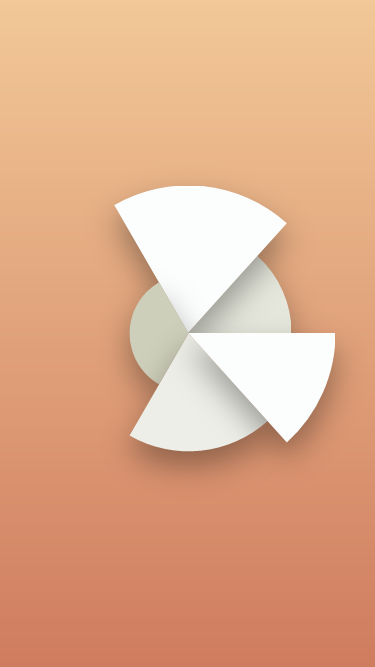
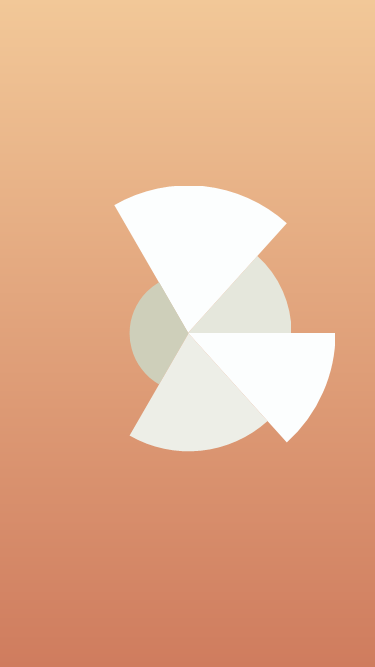
Removed shadow usage from PlotWedge
VectorLayer doesn't really support it

diff --git a/Samples/PieChart/README.md b/Samples/PieChart/README.md
@@ -18,9 +18,7 @@ Slices are drawn using `PlotWedge`, like so:
 
 	<c:PlotData >
 		<Panel ux:Name="me" Width="{Plot data.object}.sizePercent" Height="{Plot data.object}.sizePercent">
-			<c:PlotWedge ux:Name="meCircle" Color="(((1 - {{Plot data.object}.size/100}) * #b0b08C) + (({{Plot data.object}.size/100}) * #FCFEFE))" HitTestMode="LocalVisual" >
-			    <Shadow Size="30" Distance="15" Mode="PerPixel"/>
-			</c:PlotWedge>
+			<c:PlotWedge ux:Name="meCircle" Color="(((1 - {{Plot data.object}.size/100}) * #b0b08C) + (({{Plot data.object}.size/100}) * #FCFEFE))" HitTestMode="LocalVisual" />
 		</Panel>
 	</c:PlotData>
 
